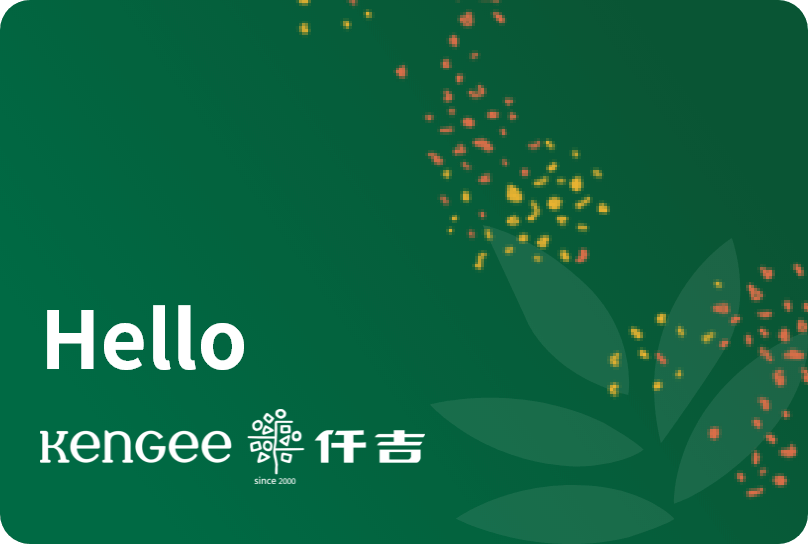
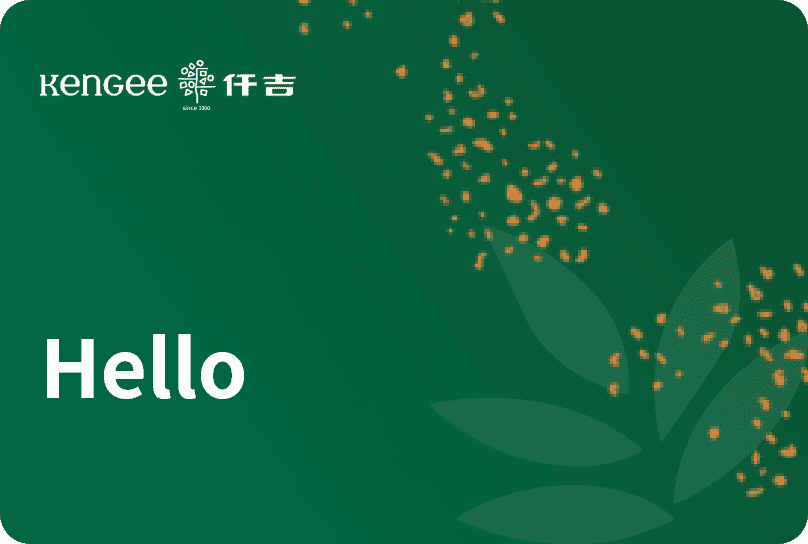
1

diff --git a/pages/Center/Center.vue b/pages/Center/Center.vue
@@ -9,6 +9,7 @@
 			<view class="leftlist">
 				<view class="logos">
 					<image src="@/images/hello-card.png" mode="widthFix"></image>
+					<view class="xingqi"><text>{{curWeek}}</text>{{curDate}}</view>
 				</view>
 				<view class="sginout">
 					<view @click="Sign()"><label>签到</label><text>SIGN IN</text></view>
@@ -16,9 +17,15 @@
 				</view>
 				<view class="dates">
 					<image class="datebg" src="@/images/quan-bg.png" mode="widthFix"></image>
-					<view>
-						<label><text>{{curWeek}}</text><text>{{curDate}}</text></label>
-						<image src="@/images/day-icon.png" mode="widthFix"></image>
+					<view class="sginout">
+						<view @click="Waimai()">
+							<image class="tubiao" src="@/images/waimai.png" mode="widthFix"></image>
+							<label>外卖单</label><text>TAKE OUT</text>
+						</view>
+						<view @click="Chaxun()">
+							<image class="tubiao" src="@/images/chaxun.png" mode="widthFix"></image>
+							<label>门店查询</label><text>QUERY</text>
+						</view>
 					</view>
 				</view>
 			</view>
@@ -437,7 +444,18 @@
 		overflow: hidden;
 		border-radius: 30rpx;
 	}
-
+	.leftlist .logos .xingqi{
+		position: absolute;
+		bottom:58rpx;
+		left: 5%;
+		z-index: 9;
+		font-size: 38rpx;
+		color: #fff;
+	}
+	.leftlist .logos .xingqi text{
+		font-weight: 700;
+		margin-right: 30rpx;
+	}
 	.leftlist .logos image {
 		position: absolute;
 		bottom: 0;
@@ -525,7 +543,28 @@
 		width: 140rpx;
 		height: 140rpx;
 	}
-
+	.dates .sginout{
+		width: 90%;
+		position: relative;
+		z-index: 9;
+		padding:0 5%;
+	}
+	.dates .sginout view{
+		padding:0;
+		display: flex;
+		justify-content: center;
+		align-items: flex-start;
+		box-shadow: none;
+	}
+	.dates .sginout view:nth-child(1){
+		border-right: 0.5px solid #C1F6D8;
+	}
+	.dates .sginout view .tubiao{
+		width:60rpx;
+		height: 60rpx;
+		margin-left: 20%;
+		margin-bottom: 26rpx;
+	}
 	.rightlist {
 		width: 53%;
 	}
@@ -680,39 +719,20 @@
 		perspective: 400px;
 
 	}
-
-
-
 	.div {
-
 		width: 100;
-
 		height: 450px;
-
 		margin: 0 auto;
-
 		position: relative;
-
 	}
 
 	.div image {
-
 		width: 100%;
-
 		height: 100%;
-
 		position: absolute;
-
 		top: 0;
-
-		/* left: 0; */
-
 		transition: all 1s;
-
 	}
-
-
-
 	.div image:first-child {
 
 		z-index: 1;
@@ -722,12 +742,5 @@
 		backface-visibility: hidden;
 
 	}
-
-
-
-	/* .div:hover image{
 	
-	            transform: rotateY(180deg);
-	
-	        } */
 </style>

diff --git a/pages/Payment/Payment.vue b/pages/Payment/Payment.vue
@@ -2223,7 +2223,8 @@
 		padding: 2% 0 3%;
 	}
 	.bom-zhifu .pattern:nth-child(1),.bom-zhifu .pattern:nth-child(2)
-	,.bom-zhifu .pattern:nth-child(3){
+	,.bom-zhifu .pattern:nth-child(3),.bom-zhifu .pattern:nth-child(4)
+	,.bom-zhifu .pattern:nth-child(5),.bom-zhifu .pattern:nth-child(6){
 		width:47% !important;
 	}
 	.bom-zhifu .pattern:nth-last-child(1),.bom-zhifu .pattern:nth-last-child(2)
